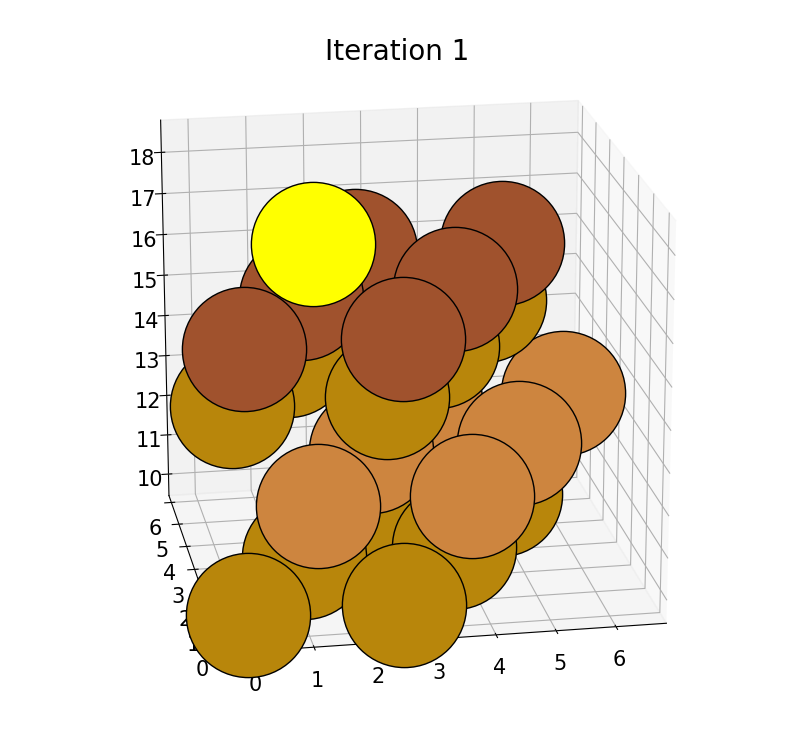
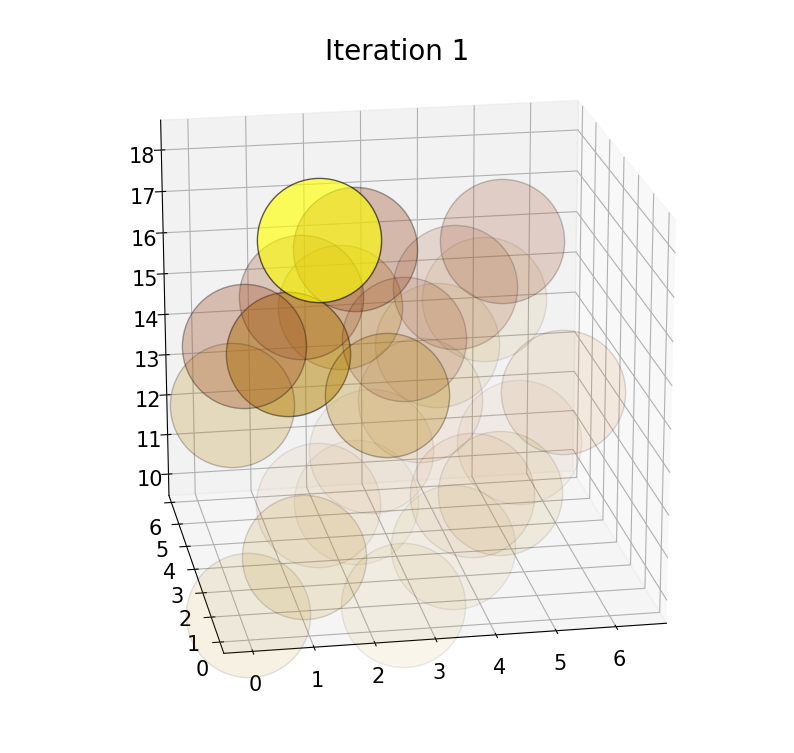
Added view_force functionality

diff --git a/envs/ASE_rl_env.py b/envs/ASE_rl_env.py
@@ -72,9 +72,18 @@ class ASE_RL_Env():
 
         self.iter = 0
 
+        self.script_dir = os.path.dirname(__file__)
+
         # Plotting
         if self.view:
             self.initialize_viewer()
+
+        
+
+        # Create directory to save trajectory files for hessian?? noope
+        #self.results_dir = os.path.join(self.script_dir, 'plots/')
+        #if not os.path.isdir(self.results_dir):
+        #    os.makedirs(self.results_dir)
 
 
     def initialize_viewer(self):
@@ -105,8 +114,7 @@ class ASE_RL_Env():
         self.ax.set_title('Iteration ' + str(self.iter), fontsize=20)
         plt.show(block=False)
 
-        
-        self.script_dir = os.path.dirname(__file__)
+        # Specify where to save the plots
         self.results_dir = os.path.join(self.script_dir, 'plots/')
         if not os.path.isdir(self.results_dir):
             os.makedirs(self.results_dir)
@@ -155,11 +163,6 @@ class ASE_RL_Env():
             Updates the positions of the agent atom
             according to the chosen action
         """
-        # Allow agent atom to be moved
-        if self.iter > 1:
-            self.mask = np.repeat(False, self.num_atoms)
-            constraint = FixAtoms(mask=self.mask)
-            self.atom_object.set_constraint(constraint)
 
         # Increment position by agent action
         self.pos = self.atom_object.get_positions()
@@ -190,8 +193,13 @@ class ASE_RL_Env():
         self.relaxer = BFGS(self.atom_object)
         #self.relaxer = GPMin(self.atom_object)
         self.relaxer.run(fmax=self.max_force)
-        # print(self.relaxer.)
         self.pos = self.atom_object.get_positions()
+
+        # Finally, remove the constraint from all atoms
+        # (necessary for .get_forces())
+        self.mask = np.repeat(False, self.num_atoms)
+        constraint = FixAtoms(mask=self.mask)
+        self.atom_object.set_constraint(constraint)
 
         return self.pos
 
@@ -250,7 +258,8 @@ class ASE_RL_Env():
             done = True
             info = "Wall"
 
-        # c) Has max iterations been reached? .. to be removed
+        # c) Has max iterations been reached? 
+        # .. to be removed (happens in main script)
         if self.iter >= self.max_iter:
             done = True
             info = "Max_iter"
@@ -269,11 +278,17 @@ class ASE_RL_Env():
             self.ax.clear()
 
             if self.view_force:
+                # Should forces be shown after action instead of relaxation?
                 forces = self.atom_object.get_forces()
+                forces_magnitude = np.linalg.norm(forces, axis=1)
                 for i in range(self.num_atoms):
+                    #print('force ' + str(i) + ' = ' + str(forces_magnitude[i]))
+                    alpha = (1/self.max_force)*forces_magnitude[i]
+                    alpha = min(1, max(alpha, 0))
                     self.ax.scatter(
                         pos[i, 0], pos[i,1], pos[i, 2],
-                        zdir='z', s=8000, c=forces,
+                        zdir='z', s=8000, c=self.atom_colors[i],
+                        alpha=alpha,
                         depthshade=False, edgecolors='black'
                     )
             else:
